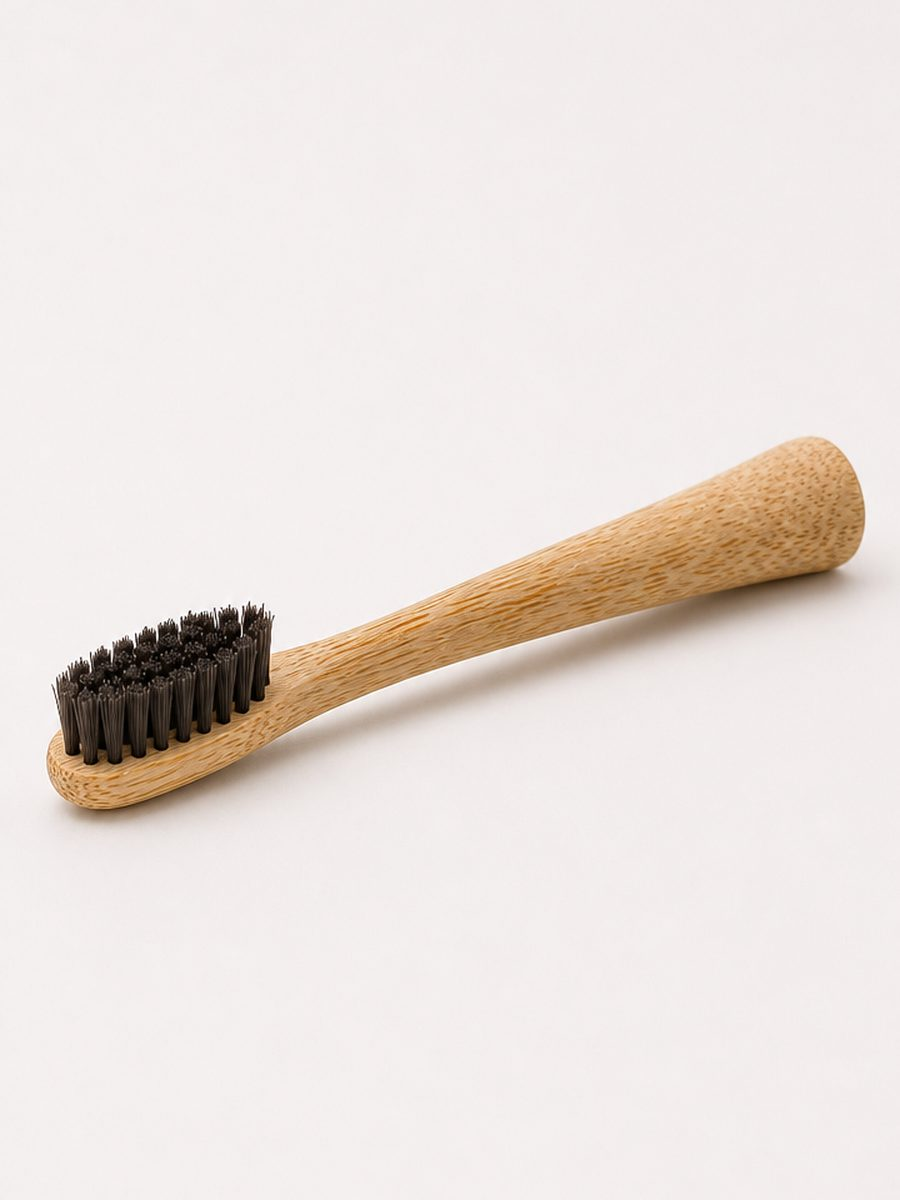
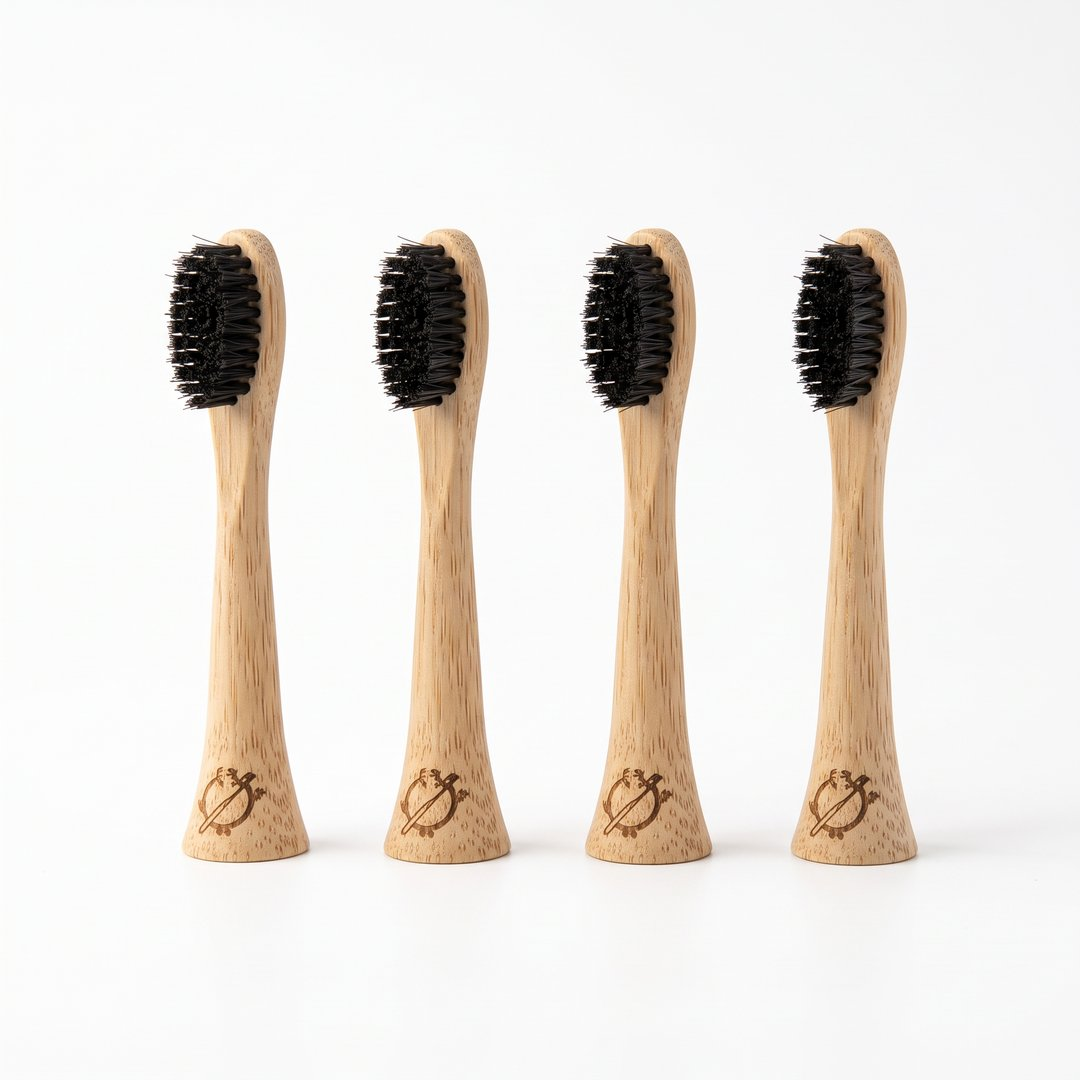
Nya produktbilder för tandborsthuvud (1:1) + snabbare huvudbild
- Huvudbild: rent 4-pack på vit bakgrund
- Badrumsbild: eltandborste med förpackning
- Galleri till 1:1 (tar bort --portrait), fulla kvadrater utan beskärning
- Huvudbild eager + fetchpriority=high, uppdaterad alt-text

Changed region(s): [[0.0311, 0.2139, 0.9956, 0.825]]

diff --git a/produkter/tandborsthuvud-sonicare-bambu.html b/produkter/tandborsthuvud-sonicare-bambu.html
@@ -131,12 +131,12 @@
     <!-- Product -->
     <section class="product">
       <div class="container product__inner">
-        <div class="product__gallery product__gallery--portrait">
+        <div class="product__gallery">
           <div class="product__main">
             <div class="product__sticker">Nyhet</div>
             <picture>
               <source id="galleryWebp" srcset="../assets/bambu-tandborsthuvud-eltandborste.webp" type="image/webp" />
-              <img id="galleryImg" src="../assets/bambu-tandborsthuvud-eltandborste.jpg" width="900" height="1200" loading="lazy" decoding="async" alt="Tandborsthuvud i bambu för eltandborste med naturborst – kommer snart" />
+              <img id="galleryImg" src="../assets/bambu-tandborsthuvud-eltandborste.jpg" width="1080" height="1080" loading="eager" fetchpriority="high" decoding="async" alt="Tandborsthuvud i bambu, 4-pack – utbytbart borsthuvud med naturborst av hästhår, passar Philips Sonicare" />
             </picture>
           </div>
           <div class="product__thumbs" aria-label="Produktbilder">
